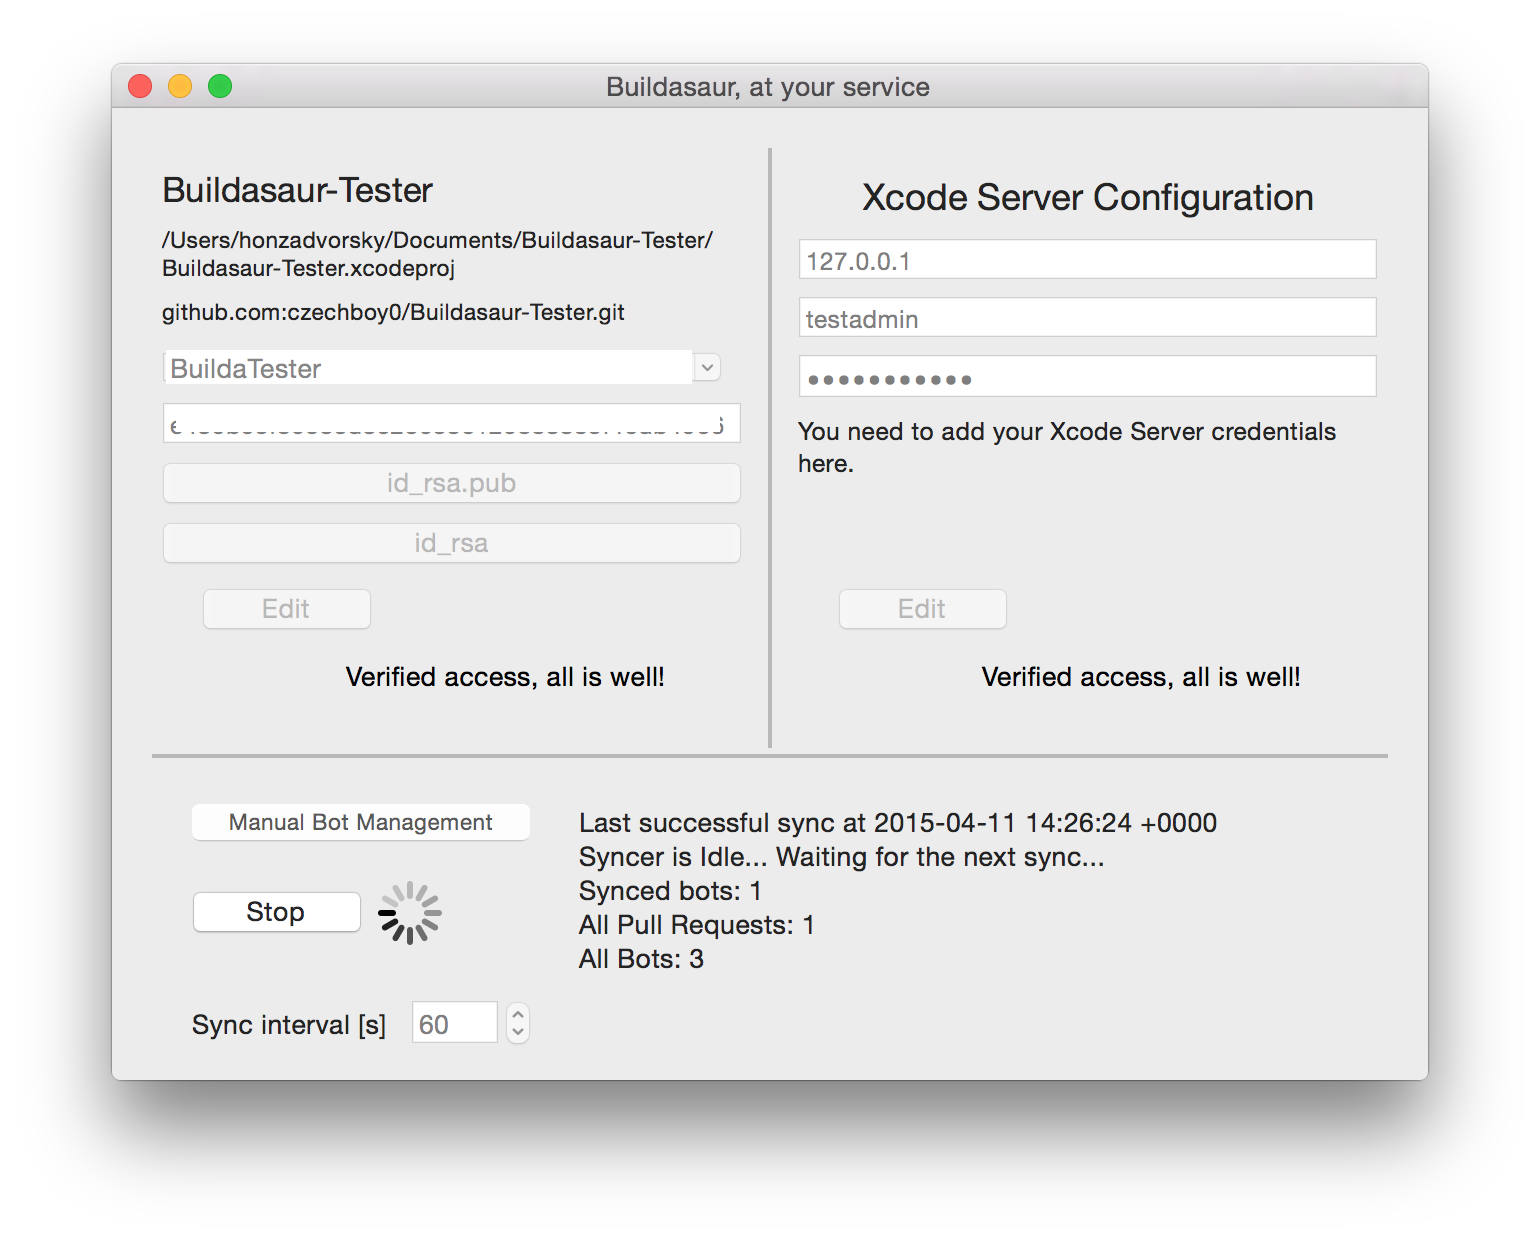
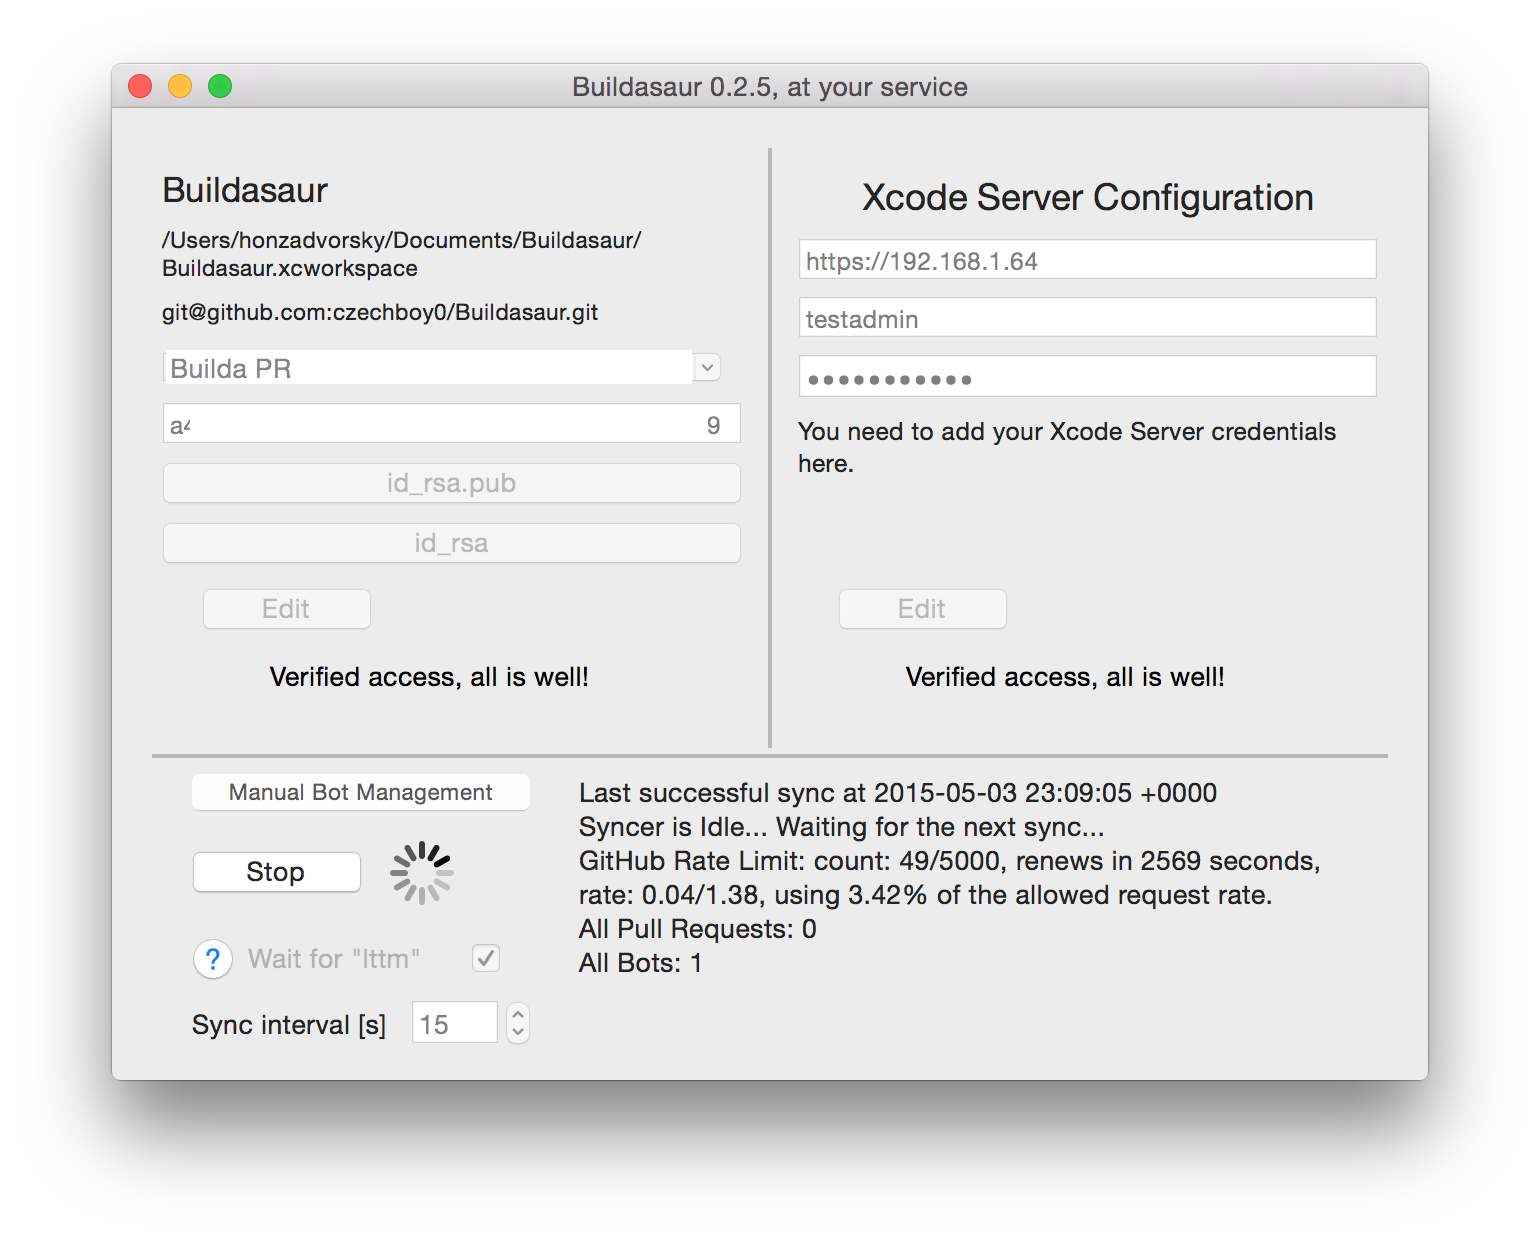
added support for optional lttm, changable from the ui, saved per-syncer, defaults to enabled, has a link to the documentation

diff --git a/Buildasaur/StatusSyncerViewController.swift b/Buildasaur/StatusSyncerViewController.swift
@@ -18,6 +18,7 @@ class StatusSyncerViewController: StatusViewController, SyncerDelegate {
     @IBOutlet weak var statusActivityIndicator: NSProgressIndicator!
     @IBOutlet weak var syncIntervalStepper: NSStepper!
     @IBOutlet weak var syncIntervalTextField: NSTextField!
+    @IBOutlet weak var lttmToggle: NSButton!
     
     var isSyncing: Bool {
         set {
@@ -134,6 +135,7 @@ class StatusSyncerViewController: StatusViewController, SyncerDelegate {
 
         self.startStopButton.title = self.isSyncing ? "Stop" : "Start"
         self.syncIntervalStepper.enabled = !self.isSyncing
+        self.lttmToggle.enabled = !self.isSyncing
         
         if self.isSyncing {
             self.statusActivityIndicator.startAnimation(nil)
@@ -144,9 +146,10 @@ class StatusSyncerViewController: StatusViewController, SyncerDelegate {
         if let syncer = self.syncer() {
             
             self.updateIntervalFromUIToValue(syncer.syncInterval)
-            
+            self.lttmToggle.state = syncer.waitForLttm ? NSOnState : NSOffState
         } else {
             self.updateIntervalFromUIToValue(15) //default
+            self.lttmToggle.state = NSOnState //default is true
         }
     }
     
@@ -180,6 +183,14 @@ class StatusSyncerViewController: StatusViewController, SyncerDelegate {
         }
     }
     
+    @IBAction func helpLttmButtonTapped(sender: AnyObject) {
+        
+        let urlString = "https://github.com/czechboy0/Buildasaur/blob/master/README.md#the-lttm-barrier"
+        if let url = NSURL(string: urlString) {
+            NSWorkspace.sharedWorkspace().openURL(url)
+        }
+    }
+    
     override func prepareForSegue(segue: NSStoryboardSegue, sender: AnyObject?) {
         
         if let manual = segue.destinationController as? ManualBotManagementViewController {
@@ -196,11 +207,12 @@ class StatusSyncerViewController: StatusViewController, SyncerDelegate {
             self.storageManager.removeSyncer(syncer)
         }
         
+        let waitForLttm = self.lttmToggle.state == NSOnState
         let syncInterval = self.syncIntervalTextField.doubleValue
         let project = self.delegate.getProjectStatusViewController().project()!
         let serverConfig = self.delegate.getServerStatusViewController().serverConfig()!
         
-        if let syncer = self.storageManager.addSyncer(syncInterval, project: project, serverConfig: serverConfig) {
+        if let syncer = self.storageManager.addSyncer(syncInterval, waitForLttm: waitForLttm, project: project, serverConfig: serverConfig) {
             
             syncer.active = true
             

diff --git a/Buildasaur/HDGitHubXCBotSyncer.swift b/Buildasaur/HDGitHubXCBotSyncer.swift
@@ -16,14 +16,16 @@ public class HDGitHubXCBotSyncer : Syncer {
     let github: GitHubServer!
     let xcodeServer: XcodeServer!
     let localSource: LocalSource!
+    let waitForLttm: Bool
     
     typealias GitHubStatusAndComment = (status: Status, comment: String?)
     
-    init(integrationServer: XcodeServer, sourceServer: GitHubServer, localSource: LocalSource, syncInterval: NSTimeInterval) {
+    init(integrationServer: XcodeServer, sourceServer: GitHubServer, localSource: LocalSource, syncInterval: NSTimeInterval, waitForLttm: Bool) {
         
         self.github = sourceServer
         self.xcodeServer = integrationServer
         self.localSource = localSource
+        self.waitForLttm = waitForLttm
         super.init(syncInterval: syncInterval)
     }
     
@@ -39,6 +41,7 @@ public class HDGitHubXCBotSyncer : Syncer {
             self.localSource = project
             self.github = GitHubFactory.server(project.githubToken)
             self.xcodeServer = XcodeServerFactory.server(serverConfig)
+            self.waitForLttm = json.optionalBoolForKey("wait_for_lttm") ?? true
             super.init(syncInterval: syncInterval)
             
         } else {
@@ -46,6 +49,7 @@ public class HDGitHubXCBotSyncer : Syncer {
             self.github = nil
             self.xcodeServer = nil
             self.localSource = nil
+            self.waitForLttm = true
             super.init(syncInterval: 0)
             return nil
         }
@@ -57,6 +61,7 @@ public class HDGitHubXCBotSyncer : Syncer {
         dict["sync_interval"] = self.syncInterval
         dict["project_path"] = self.localSource.url.absoluteString
         dict["server_host"] = self.xcodeServer.config.host
+        dict["wait_for_lttm"] = self.waitForLttm
         return dict
     }
     
@@ -228,9 +233,9 @@ public class HDGitHubXCBotSyncer : Syncer {
         //bot is enabled if (there are any integrations) OR (there is a recent comment with a keyword to enable the bot in the pull request's conversation)
         //which means that there are two ways of enabling a bot. 
         //a) manually start an integration through Xcode, API call or in Builda's GUI (TBB)
-        //b) comment an agreed keyword in the Pull Request, e.g. "lttm" - 'looks testable to me' is a frequent one
+        //b) (optional) comment an agreed keyword in the Pull Request, e.g. "lttm" - 'looks testable to me' is a frequent one
         
-        if integrations.count > 0 {
+        if integrations.count > 0 || !self.waitForLttm {
             completion(isEnabled: true)
             return
         }

diff --git a/Buildasaur/StorageManager.swift b/Buildasaur/StorageManager.swift
@@ -52,7 +52,7 @@ class StorageManager {
         self.servers.append(config)
     }
     
-    func addSyncer(syncInterval: NSTimeInterval, project: LocalSource, serverConfig: XcodeServerConfig) -> HDGitHubXCBotSyncer? {
+    func addSyncer(syncInterval: NSTimeInterval, waitForLttm: Bool, project: LocalSource, serverConfig: XcodeServerConfig) -> HDGitHubXCBotSyncer? {
 
         if syncInterval <= 0 {
             Log.error("Sync interval must be > 0 seconds.")
@@ -61,7 +61,7 @@ class StorageManager {
         
         let xcodeServer = XcodeServerFactory.server(serverConfig)
         let github = GitHubFactory.server(project.githubToken)
-        let syncer = HDGitHubXCBotSyncer(integrationServer: xcodeServer, sourceServer: github, localSource: project, syncInterval: syncInterval)
+        let syncer = HDGitHubXCBotSyncer(integrationServer: xcodeServer, sourceServer: github, localSource: project, syncInterval: syncInterval, waitForLttm: waitForLttm)
         self.syncers.append(syncer)
         return syncer
     }

diff --git a/README.md b/README.md
@@ -51,10 +51,20 @@ Installation Steps
 Default workflow
 ----------------
 The default workflow is as follows:
-- a Pull Request is created by an author, Builda creates an inactive Bot
-- when someone comments "lttm" (looks testable to me) in the Pull Request conversation, Builda activates the bot, runs tests on it and reports back to GitHub with the result, by changing the status and posting a comment
-- the "lttm" barrier is so that reviewers have a chance to go back and forth with the author before they are both happy with the code, at which point it makes sense to test it
+- a Pull Request is created by the author, Builda creates a bot
+- if the "lttm" barrier (see below) is disabled, an integration is started immediately. if the "lttm" barrier is enabled, Builda waits until someone comments "lttm" in the Pull Request conversation (the "lttm" barrier is **enabled** by default, can be disabled in the UI)
+- an integration is performed on the PR's branch
+- result of the integration is reported back to GitHub by changing the status of the latest commit of the branch and posting a comment in the PR conversation
+- if any additional commits are pushed, another integration gets performed and reported back
+- when a PR is closed, the bot gets deleted
 - if you require a different workflow, create an issue and we'll figure something out
+
+The "lttm" barrier
+------------------
+- an optional extra step in the workflow (**enabled** by default)
+- instead of integrating immediately after a PR is created, the reviewer first has a chance to look at the code and request any fixes of the code from the author
+- when the reviewer is happy with the code visually, she comments "lttm" in the PR and the bot is activated and performs and integration on the code
+- from that point on, if any additional commits are pushed, they get integrated as with the basic workflow
 
 Manual Bot Management
 ---------------------
